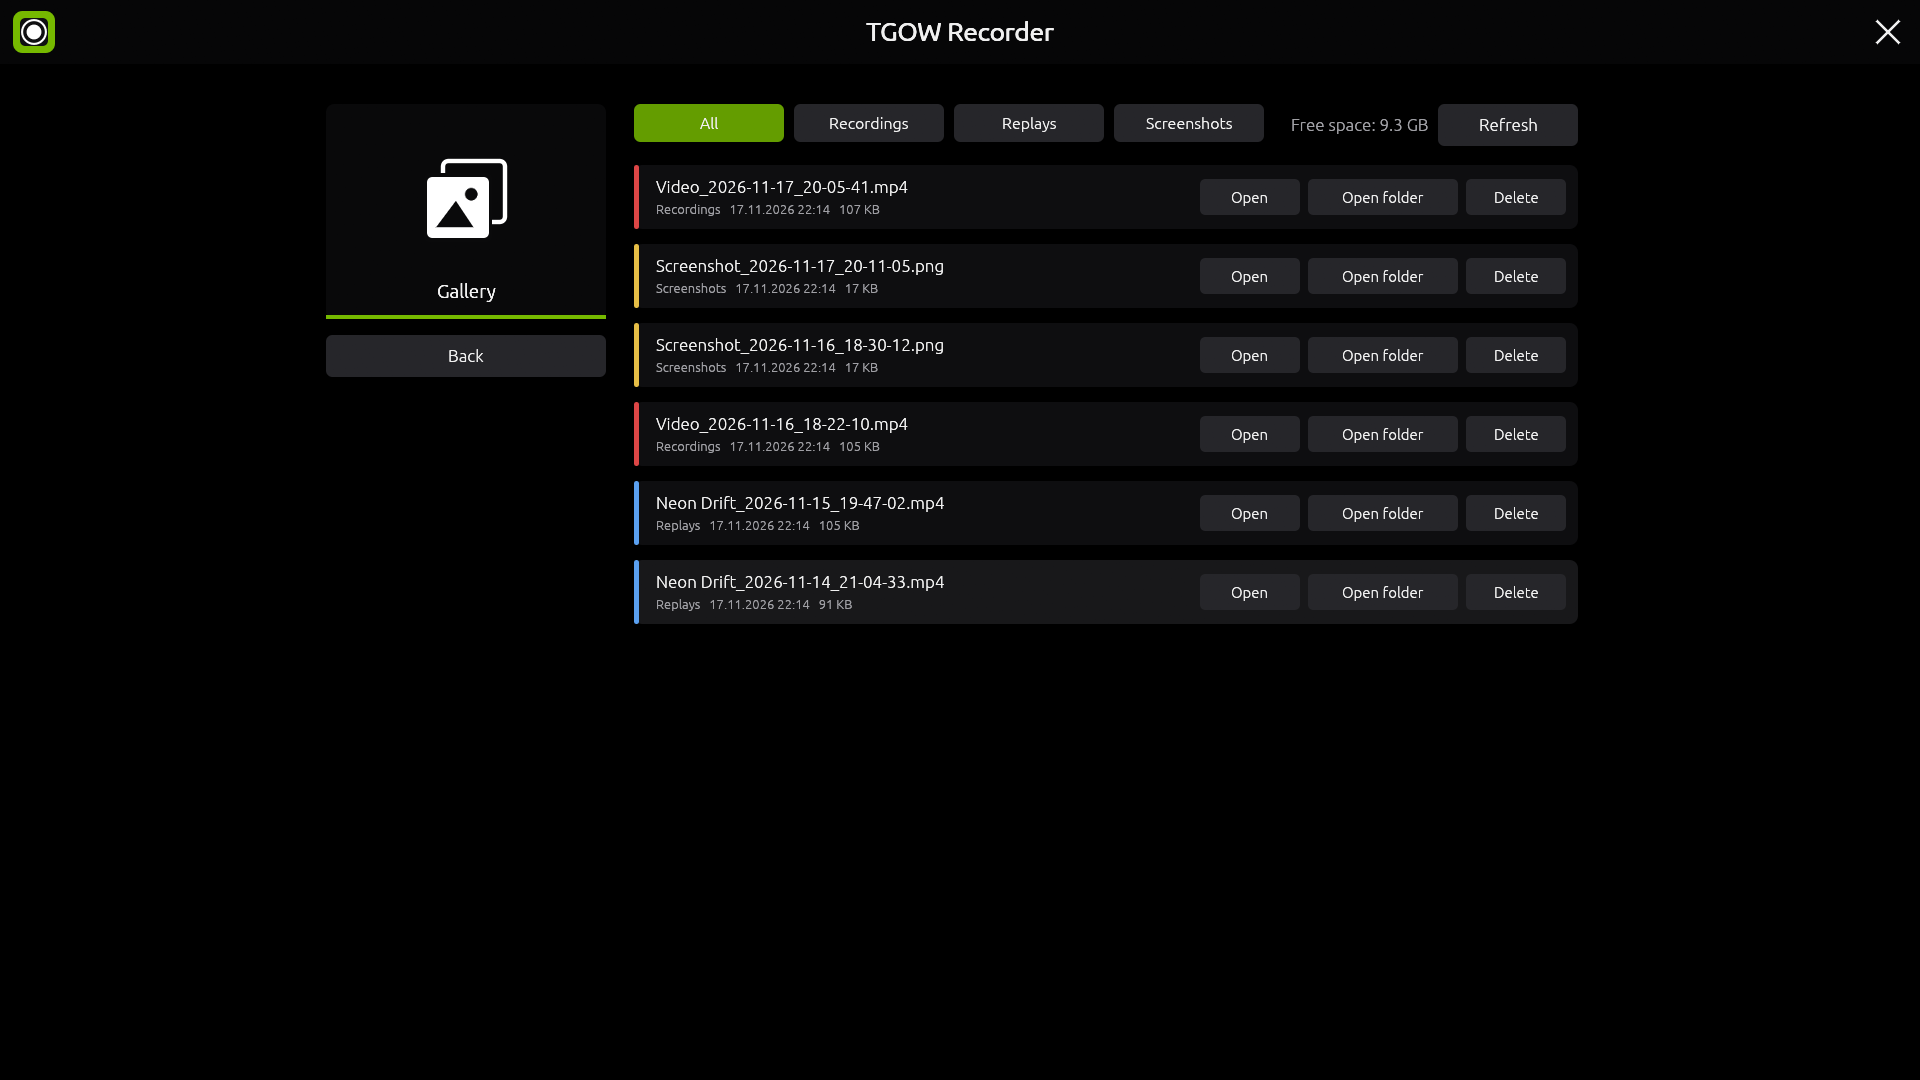
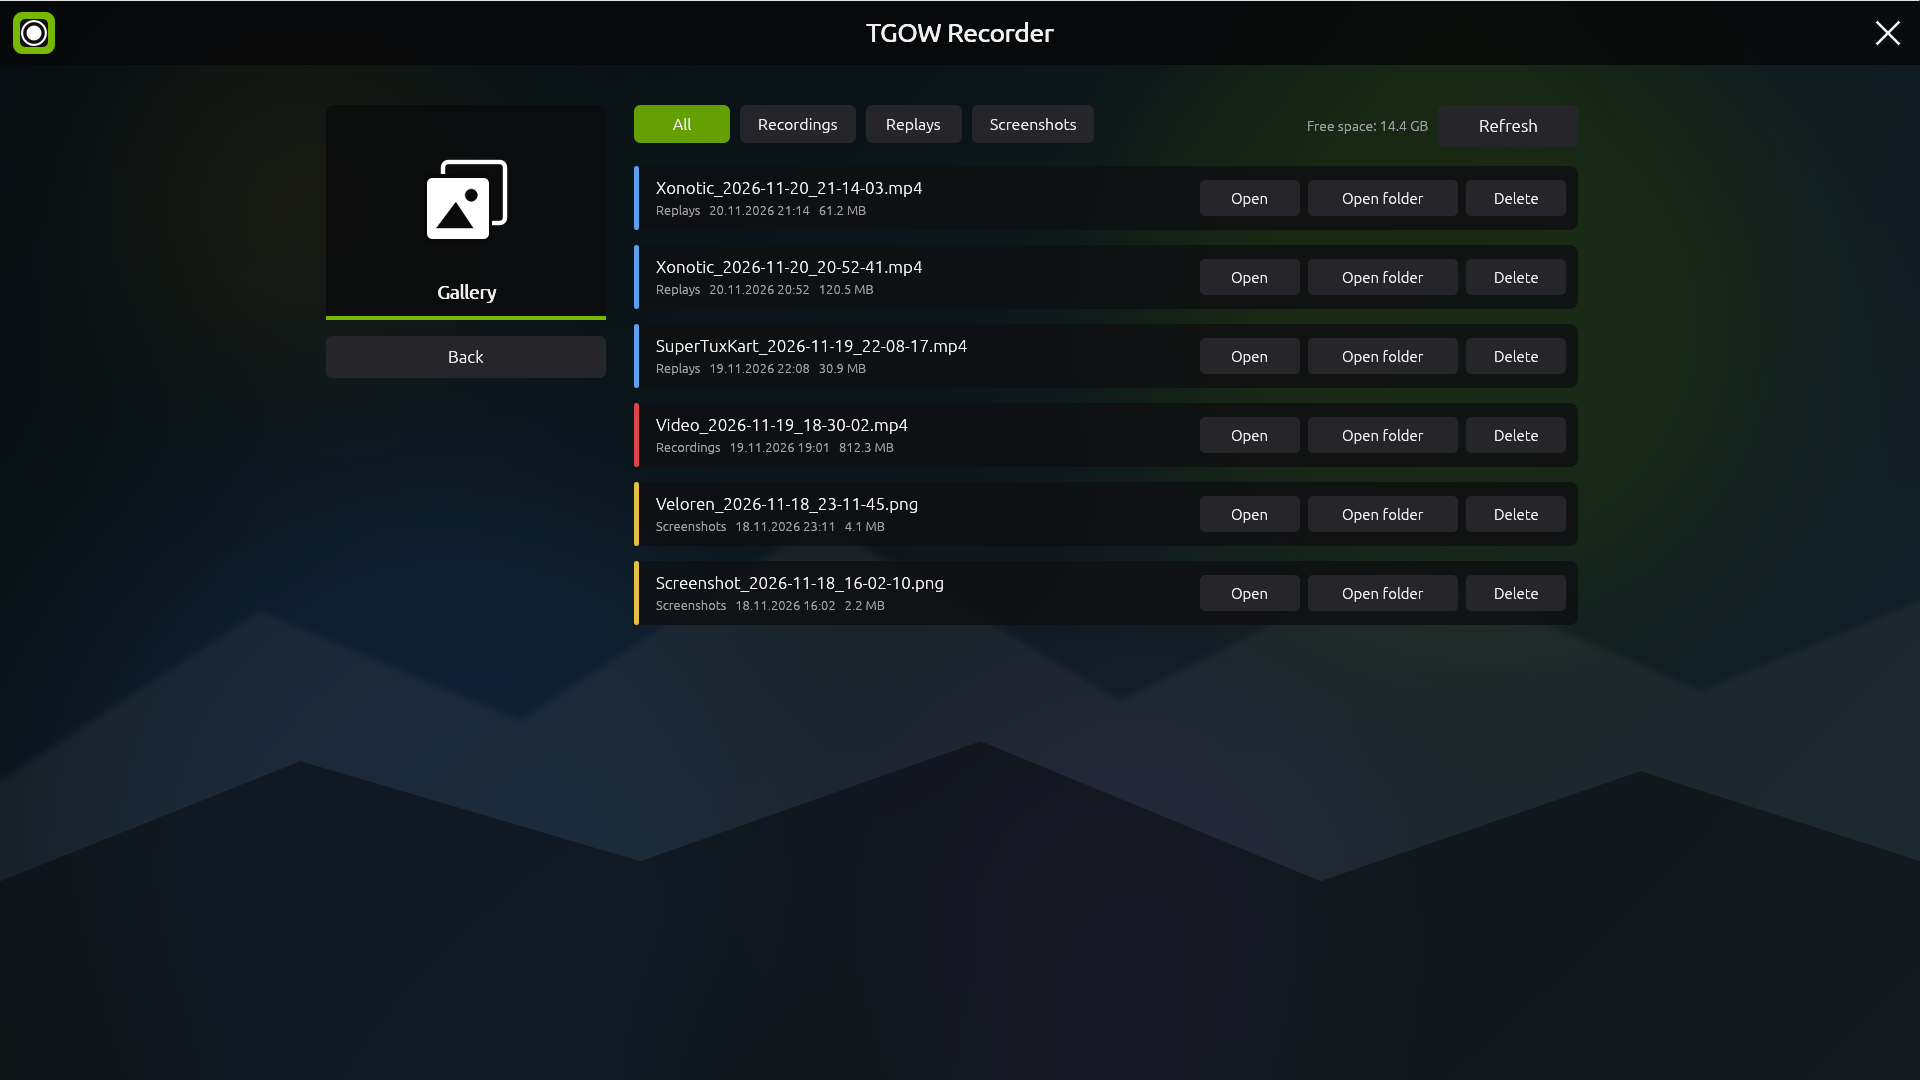
Refresh the README screenshots and keep bold titles crisp

diff --git a/crates/overlay/src/theme.rs b/crates/overlay/src/theme.rs
@@ -110,7 +110,8 @@ pub fn font(size: f32) -> FontId {
 }
 
 pub fn bold_text(painter: &Painter, pos: Pos2, anchor: Align2, text: &str, size: f32, color: Color32) {
-    painter.text(pos + Vec2::new(0.45, 0.0), anchor, text, font(size), color);
+    let pixel = 1.0 / painter.pixels_per_point();
+    painter.text(pos + Vec2::new(pixel, 0.0), anchor, text, font(size), color);
     painter.text(pos, anchor, text, font(size), color);
 }
 

diff --git a/README.md b/README.md
@@ -7,7 +7,7 @@
 <p align="center">
   <b>Instant replay, recording, livestreaming and screenshots behind one hotkey; a ShadowPlay-style screen recorder, built in pure Rust.</b><br>
   Hardware encoding on NVIDIA, AMD and Intel, a fullscreen overlay, per-app audio tracks and a replay buffer in RAM or on disk,<br>
-  in three small native programs for Windows and Linux. Free, offline, and yours.
+  in three small native programs for Windows and Linux. Free, private, and yours.
 </p>
 
 <p align="center">
@@ -31,9 +31,9 @@
 <br>
 
 <p align="center">
-  <img src="docs/images/tgow-recorder-main.png" alt="The TGOW Recorder overlay: a top bar with the logo, the title and a close button, three panels for Instant Replay (on, with a green replay icon), Record (not recording) and Livestream (not streaming), and buttons for screenshot, settings and the gallery" width="100%">
+  <img src="docs/images/tgow-recorder-main.png" alt="The TGOW Recorder overlay over a dimmed desktop: a top bar with the logo, the title and a close button, three panels for Instant Replay (on, with a green replay icon and an open menu with Turn off, Save, Save 30 sec and Settings), Record (not recording) and Livestream (not streaming), and buttons for screenshot, settings and the gallery" width="100%">
   <br>
-  <sub>Press Alt+Z in any game or app: replay, record and stream are one click away, the panel turns green while it runs.</sub>
+  <sub>Press Alt+Z in any game or app: the overlay dims what is behind it, and replay, record and stream are one click away. The panel turns green while it runs.</sub>
 </p>
 
 > [!NOTE]
@@ -67,11 +67,11 @@
     </td>
     <td width="25%" valign="top">
       <h3>⚡ The GPU does the work</h3>
-      NVENC, AMF, Quick Sync, VA-API or Vulkan encode H264, HEVC and AV1, also in 10 bit. A multithreaded colour converter keeps a 1080p frame under 2&nbsp;ms on the CPU.
+      NVENC, AMF, Quick Sync, VA-API or Vulkan encode H264, HEVC and AV1, also in 10 bit. Without a usable GPU it falls back to another graphics chip or to the CPU by itself, so a recording never just fails.
     </td>
     <td width="25%" valign="top">
-      <h3>🔊 Every sound on its own track</h3>
-      Mix your speakers, your microphone and single apps freely into several audio tracks, or record everything except Discord. A mute hotkey silences the mic in a second.
+      <h3>🔄 Updates itself</h3>
+      New versions are downloaded from GitHub, checked against their SHA-256 checksum and installed while nothing is being recorded. It never interrupts a replay or a recording.
     </td>
   </tr>
 </table>
@@ -80,39 +80,41 @@
 
 ## Features
 
-Every screenshot is the real app, captured from a release build.
+Every screenshot is the real app, captured from the Windows release build.
 
 <table>
   <tr>
     <td width="50%" valign="top">
-      <img src="docs/images/tgow-recorder-replay.png" alt="Instant Replay settings in the advanced view: capture source focused monitor, record cursor, webcam none, audio codec Opus, audio bitrate and two audio tracks with output device, add input device and add application audio" width="100%">
+      <img src="docs/images/tgow-recorder-replay.png" alt="Instant Replay settings in the advanced view: capture source main monitor, record cursor, webcam none, audio codec Opus, audio bitrate 160 and two audio tracks, the first titled Game with the default output, each with add output device, add input device and add application audio" width="100%">
       <br>
-      <sub>Instant Replay in the advanced view, with two audio tracks.</sub>
+      <sub>Instant Replay in the advanced view, with a Game and a Voice audio track.</sub>
       <h3>Instant replay, your way</h3>
       Choose how long the buffer is, whether it lives in RAM or on disk and whether it restarts after saving. Saving never interrupts the buffer, so you can save twice in a row.
       <br><br>
       It can start with the computer, only on mains power, or whenever a game is running, and turn itself off again when the game closes.
+      <br><br>
+      Every sound can go on its own audio track: mix your speakers, your microphone and single apps freely, or record everything except Discord.
     </td>
     <td width="50%" valign="top">
-      <img src="docs/images/tgow-recorder-record.png" alt="Record settings in the simple view: capture source focused monitor, change video resolution, record cursor, audio codec Opus, one audio track with the default output, video quality very high, video codec auto and 60 frames per second" width="100%">
+      <img src="docs/images/tgow-recorder-record.png" alt="Record settings in the simple view: capture source main monitor, change video resolution, record cursor, audio codec Opus, one audio track with the default output, video quality very high, video codec auto and 60 frames per second" width="100%">
       <br>
       <sub>Recording settings in the simple view.</sub>
       <h3>Record whole sessions</h3>
-      Capture a monitor, the monitor under the mouse, a window or a region you draw. Pause and resume, drop chapter markers, split long sessions into files of a fixed length or count down before it starts.
+      Capture your main monitor or any other one, a window or a region you draw. Pause and resume, drop chapter markers, split long sessions into files of a fixed length or count down before it starts.
       <br><br>
       MP4 files are written so they stay playable even if the computer crashes during a recording.
     </td>
   </tr>
   <tr>
     <td width="50%" valign="top">
-      <img src="docs/images/tgow-recorder-stream.png" alt="Livestream settings: streaming info with the service Twitch, a stream key field and keep a local copy, then capture and audio settings" width="100%">
+      <img src="docs/images/tgow-recorder-stream.png" alt="Livestream settings in the simple view: streaming info with the service Twitch, a stream key field and keep a local copy of the stream, then capture with the main monitor and audio with AAC and the default output" width="100%">
       <br>
       <sub>Go live on Twitch, YouTube, Kick, Rumble, WHIP or any RTMP or SRT server.</sub>
       <h3>Go live in one click</h3>
       Pick a service, paste your stream key and start. Constant bitrate, keyframe interval and codec are set up for streaming, and a custom server takes any RTMP, RTMPS, SRT or WHIP address.
     </td>
     <td width="50%" valign="top">
-      <img src="docs/images/tgow-recorder-screenshot.png" alt="Screenshot settings: capture source, image quality very high, image format PNG, directory ~/Pictures/Screenshots, organize into folders, name after the application, save to clipboard and save to disk" width="100%">
+      <img src="docs/images/tgow-recorder-screenshot.png" alt="Screenshot settings: capture source main monitor, image quality very high, image format PNG, the folder Pictures\Screenshots, organize into folders, name after the application, save to clipboard and save to disk" width="100%">
       <br>
       <sub>Screenshots as PNG or JPG, to disk, to the clipboard or both.</sub>
       <h3>Screenshots without the fuss</h3>
@@ -121,20 +123,29 @@ Every screenshot is the real app, captured from a release build.
   </tr>
   <tr>
     <td width="50%" valign="top">
-      <img src="docs/images/tgow-recorder-settings.png" alt="Global settings: accent color NVIDIA, AMD, Intel or custom, rounded corners, overlay background opacity, startup, system tray icon and keyboard hotkeys with Alt+Z, Alt+Shift+F10 and Alt+F10" width="100%">
+      <img src="docs/images/tgow-recorder-settings.png" alt="Global settings: accent color NVIDIA, AMD, Intel or custom, rounded corners, overlay background opacity 0.45, start on system startup yes, system tray icon, install updates automatically with the installed version, and keyboard hotkeys with Alt+Z and Alt+Shift+F10" width="100%">
       <br>
-      <sub>Accent colour, startup, tray and every hotkey in one place.</sub>
+      <sub>Accent colour, startup, updates and every hotkey in one place.</sub>
       <h3>Looks the way you like</h3>
       Pick the green, red or blue accent of your graphics card or any colour, rounded or square corners and how dark the overlay gets. Every hotkey can be changed, cleared or reset, with a warning when two actions share a key.
       <br><br>
       The interface follows your system language: German on German systems, English everywhere else.
     </td>
     <td width="50%" valign="top">
-      <img src="docs/images/tgow-recorder-gallery.png" alt="The gallery: filters for all, recordings, replays and screenshots, free disk space, and a list of recent videos and screenshots with size and date, each with open, open folder and delete" width="100%">
+      <img src="docs/images/tgow-recorder-gallery.png" alt="The gallery: filters for all, recordings, replays and screenshots, free disk space and a refresh button, and a list of replays from Xonotic and SuperTuxKart, a recording and screenshots with type, date and size, each with open, open folder and delete" width="100%">
       <br>
       <sub>The gallery lists recent clips and screenshots, filtered by type.</sub>
       <h3>Find your clips again</h3>
-      The gallery shows what you recorded last, with size and date, and opens, reveals or deletes it. The free space on the target drive is always in view, and a warning shows up before the drive runs full.
+      The gallery shows what you recorded last, with size and date, and opens, reveals or deletes it. Opening a clip or its folder closes the overlay, so the player or the file manager is right in front of you. The free space on the target drive is always in view, and a warning shows up before the drive runs full.
+    </td>
+  </tr>
+  <tr>
+    <td colspan="2" valign="top">
+      <img src="docs/images/tgow-recorder-notification.png" alt="A notification in the top right corner of the screen: the TGOW Recorder name in green, a replay icon and the text Saved a 1 minute replay of Xonotic" width="100%">
+      <br>
+      <sub>Notifications slide in at the top right, like the classic GeForce Experience overlay, and slide out again on their own.</sub>
+      <h3>Notifications that stay out of the way</h3>
+      Saved clips, started recordings and errors show up for a moment in the top right corner, then slide away. They never take the focus from your game, and while the overlay is open they appear inside it instead.
     </td>
   </tr>
 </table>
